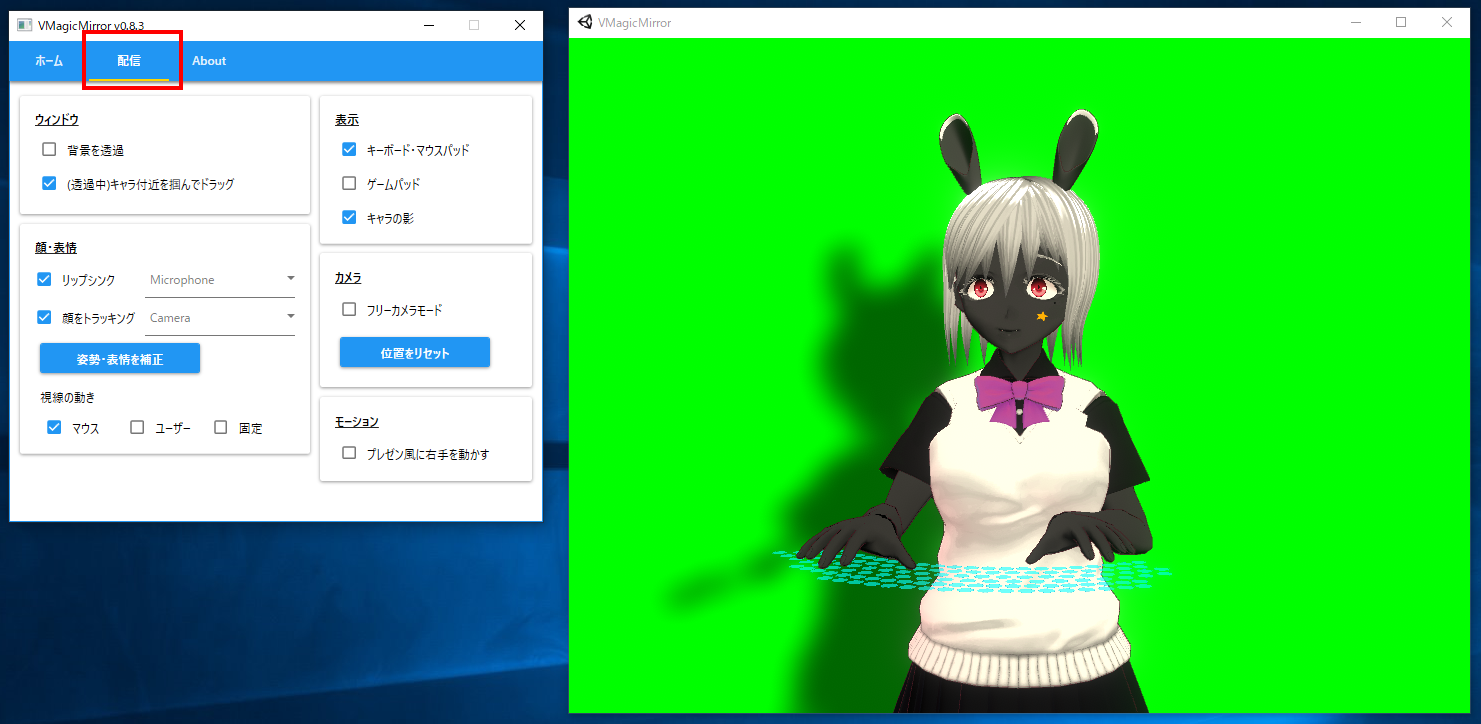
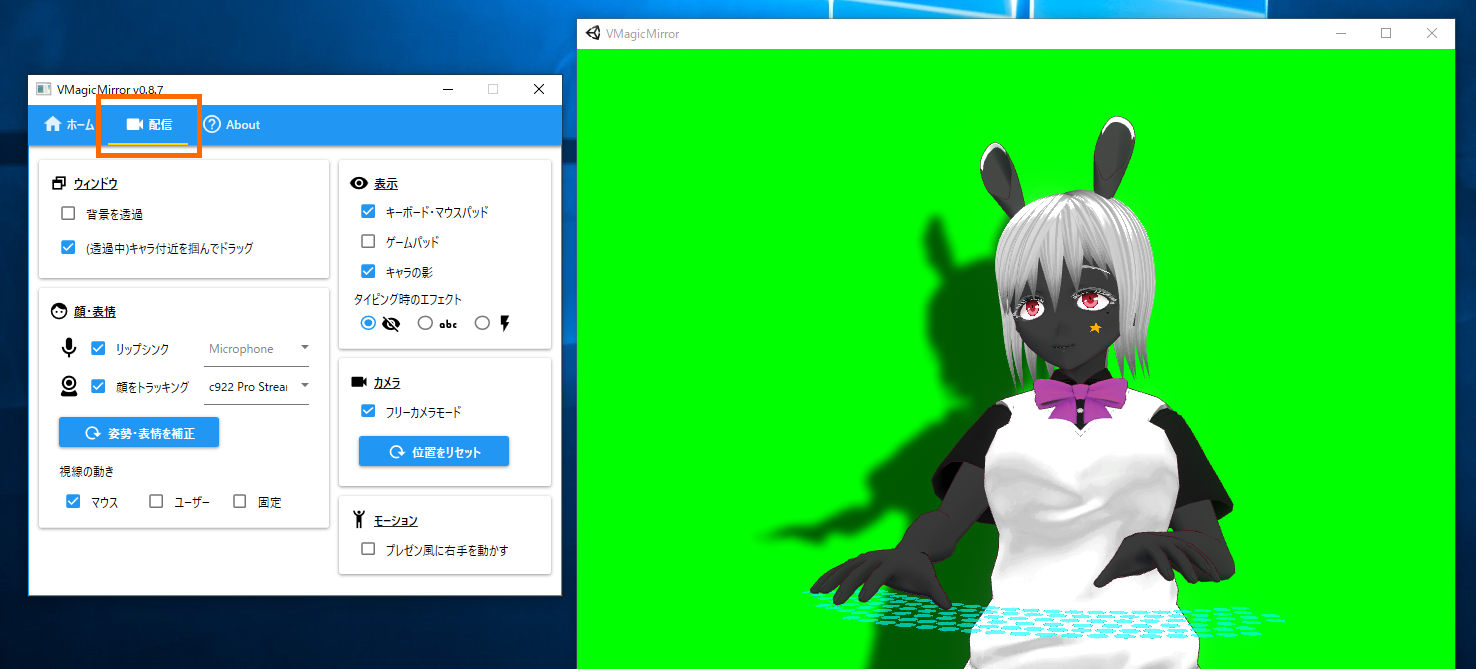
add about v0.8.7 new features

diff --git a/about_settings.md b/about_settings.md
@@ -38,7 +38,7 @@
 
 ### 3.2.1. 顔・表情
 
-上部の項目はコントロールパネルの`配信`タブで`顔・表情`に表示されているのと同じ機能です。
+上部の項目はコントロールパネルの`配信`タブで`顔・表情`に表示されているのとほぼ同じですが、設定ウィンドウの場合、`顔トラッキング中も自動でまばたき`チェックが指定できます。顔トラッキング時に目の開閉がうまく反映されず、見栄えに問題がある場合は、このチェックをオンにしてください。
 
 下部の`Funブレンドのデフォルト値[%]`は、キャラクターの表情をつねにやや笑顔に保つための設定値です。
 
@@ -119,6 +119,8 @@
 ### 3.3.2. キーボード・マウスパッド
 
 キーボードやマウスパッドの大きさ、高さを変更できます。キャラクターの体格に応じてサイズを変更してください。
+
+キーボードの項目でも`配信`タブと同様、タイピング時のエフェクトを設定できます。
 
 ### 3.3.3. ゲームパッド
 

diff --git a/en_about_settings.md b/en_about_settings.md
@@ -40,7 +40,7 @@ In default, the character becomes semitransparent during the mouse pointer is on
 
 ### 3.2.1. Face
 
-Upper part is the same as `Streaming` tab in control panel.
+Upper part is almost the same as `Streaming` tab in control panel, and additional check `Auto blink during face tracking` is also available. Turn on this check when you have some trouble about eye open / close tracking.
 
 The item `Default Fun Blend Shape [%]` specifies the default fun expression rate.
 
@@ -104,6 +104,8 @@ Same as `Camera` menu in control panel `Streaming` tab.
 ### 3.3.2. Keyboard
 
 You can change the size and height of the keyboard and mouse pad, along to your character's scale.
+
+This panel also supports the selection of typing effect, as control panel `Streaming` tab.
 
 ### 3.3.3. Gamepad
 

diff --git a/en_get_started.md b/en_get_started.md
@@ -116,6 +116,11 @@ Toggle `Keyboard`, `Gamepad` or `Avatar's Shadow` to show and hide them.
 
 **Hint:** If the shadow looks not good, please refer to [4: Troubleshooting](./en_troubleshooting.html) and see "4.9. Shadow looks not good". If this troubleshooting does not work well, please disable shadow.
 
+`Typing Effect` is enabled when you select `text` option at the center, or `light` at the right.
+
+[![Typing Effect](./images/get_started/img00_125_view_typing_effect_example.png)](./images/get_started/img00_125_view_typing_effect_example.png){: data-lightbox="img00_125"}
+
+
 ### 2.3.4. Camera
 
 This "Camera" means eyesight on the character window.

diff --git a/changelog.md b/changelog.md
@@ -3,6 +3,14 @@
 
 [English](./en_changelog.html)
 
+## v0.8.7
+
+2019/08/04
+
+* 追加: タイピング時にエフェクトが出せる機能
+* 追加: 顔トラッキング中でも自動のまばたきを適用できる機能
+* 変更: 顔トラッキング時の頭部について、左右に首を振る動きが反映されるよう変更
+
 ## v0.8.6
 
 2019/07/22

diff --git a/index.md b/index.md
@@ -3,10 +3,10 @@
 
 [English](./en_index.html)
 
-VMagicMirror v0.8.6
+VMagicMirror v0.8.7
 
 * 作者: 獏星(ばくすたー)
-* 2019/07/22
+* 2019/08/04
 
 WindowsでVRMを表示し、特別なデバイスを使わずキャラクターを動かせるアプリケーションです。
 

diff --git a/en_index.md b/en_index.md
@@ -3,10 +3,10 @@
 
 [Japanese](./index.html)
 
-VMagicMirror v0.8.6
+VMagicMirror v0.8.7
 
 * Creator: 獏星(ばくすたー)
-* 2019/Jul/22
+* 2019/Aug/04
 
 VMagicMirror is application for Windows desktop, to move your VRM without any special devices.
 

diff --git a/en_changelog.md b/en_changelog.md
@@ -3,6 +3,14 @@
 
 [Japanese](./changelog.html)
 
+## v0.8.7
+
+2019/08/04
+
+* Add: Typing Effect
+* Add: Auto blink when tracking face
+* Change: Head motion to be 3DoF when tracking face
+
 ## v0.8.6
 
 2019/07/22
